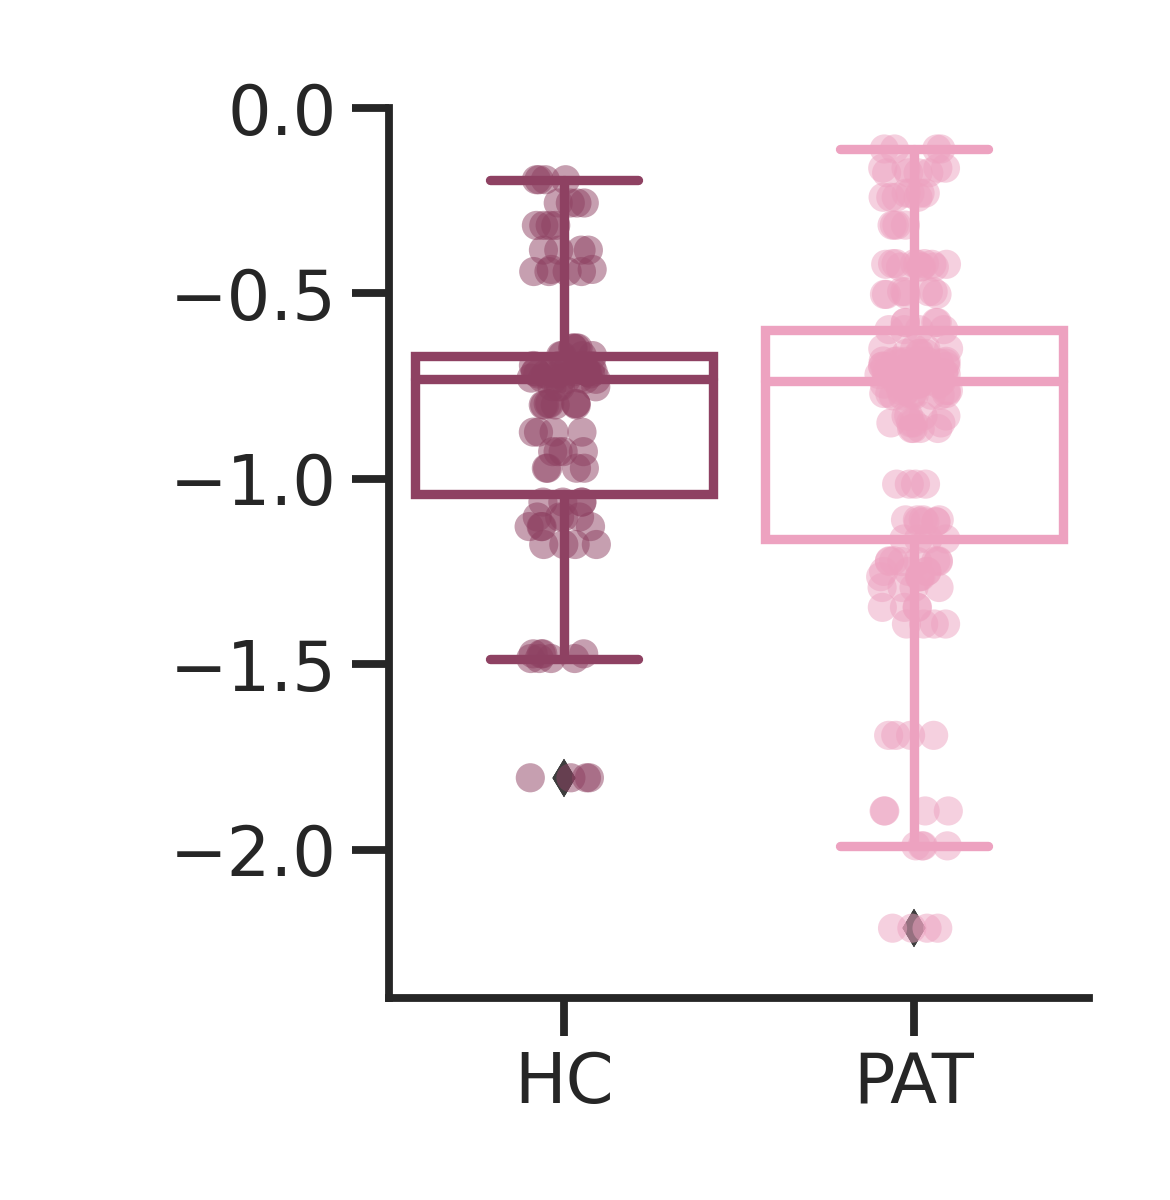
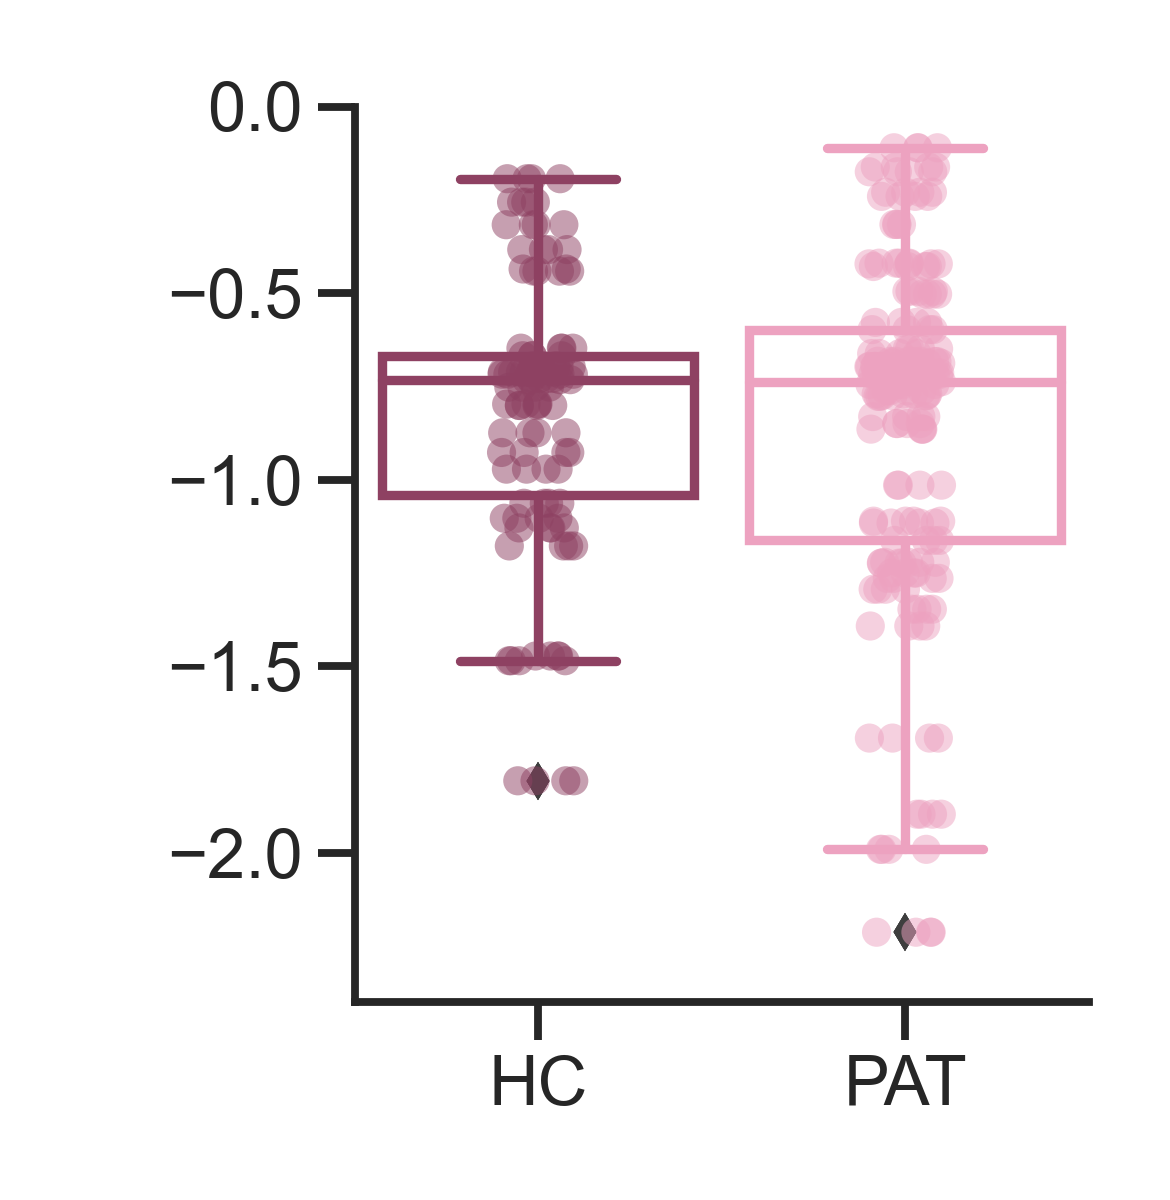
figures

diff --git a/m3_visualize.py b/m3_visualize.py
@@ -120,7 +120,7 @@ def StylexConds(data, cond, fig_id):
     for i, t in enumerate(tars):
         ax = axs[i]
         sns.boxplot(x=varr, y=t, data=data, 
-                width=width,
+                width=width, order=[case1, case2],
                 palette=colors, ax=ax)
 
         p =0 
@@ -133,7 +133,7 @@ def StylexConds(data, cond, fig_id):
                 p += 1
         sns.stripplot(x=varr, y=t, data=data, 
                         jitter=True, dodge=True, marker='o', size=7,
-                        palette=colors, alpha=0.5,
+                        palette=colors, alpha=0.5, order=[case1, case2],
                         ax=ax)
         ax.set_ylim([-5, 5])
         ax.set_xticks([0, 1])
@@ -261,7 +261,7 @@ def StylexSyndrome(data, fig_id):
         ax.set_xlim([xmin, xmax]) # for the regression predictor 
         sns.regplot(x=pred, y=tar, data=data, truncate=False,
                         color=viz.Palette2[i], scatter=False, ax=ax)
-        ax.set_ylabel('General factor (A.U.)')
+        ax.set_ylabel('General factor (a.u.)')
         ax.set_xlabel(predlabels[i])
         ax.set_box_aspect(1)
         ax.spines.right.set_visible(False)
@@ -521,15 +521,18 @@ if __name__ == '__main__':
     # Fig 2: Decision style effect
     StylexConds(pivot_table, 'group', fig_id='2A')   # Fig 2A
     StylexSyndrome(pivot_table, fig_id='2B')         # Fig 2B
+    plt.close()
 
     # Fig 3: Learning rate effect
     LRxConds(pivot_table, 'volatility', fig_id='3A') # Fig 3A
     LRxConds(pivot_table, 'group', fig_id='3B')      # Fig 3B
+    plt.close()
 
     # Fig 4: Understand the flexible behaviors
     HumanAda('loss', fig_id='4A')                    # Fig 4A
     PolicyAda(fig_id='4B')                           # Fig 4B
     StrategyAda(fig_id='4C')                         # Fig 4C
+    plt.close()
 
     # # ------ Supplementary materials ------- #
 
@@ -548,3 +551,4 @@ if __name__ == '__main__':
     # show_bms()
 
     show_param_recovery(model='MOS_fix')
+    plt.close()

diff --git a/utils/agent.py b/utils/agent.py
@@ -438,8 +438,8 @@ class MOS_fix(MOS):
     bnds     = [(0, 1), (0,50), (0, 1)] + [(-40,40)]*3
     pbnds    = [(0,.5), (0, 5), (0,.5)] + [(-5, 5)]*3
     p_name   = ['α_act', 'β', 'α', 'λ1', 'λ2', 'λ3']
-    p_priors = [beta(a=1, b=1), gamma(a=3, scale=3)] + \
-                [beta(a=1, b=1)]+[norm(loc=0, scale=10)]*3
+    p_priors = [beta(a=2, b=2), gamma(a=3, scale=3)] + \
+                [beta(a=2, b=2)]+[norm(loc=0, scale=10)]*3
     n_params = len(bnds)
     voi      = ['ps', 'pi', 'alpha', 'w1', 'w2', 'w3', 'l1', 
                 'l2', 'l3', 'l1_effect', 'l2_effect', 'l3_effect']
